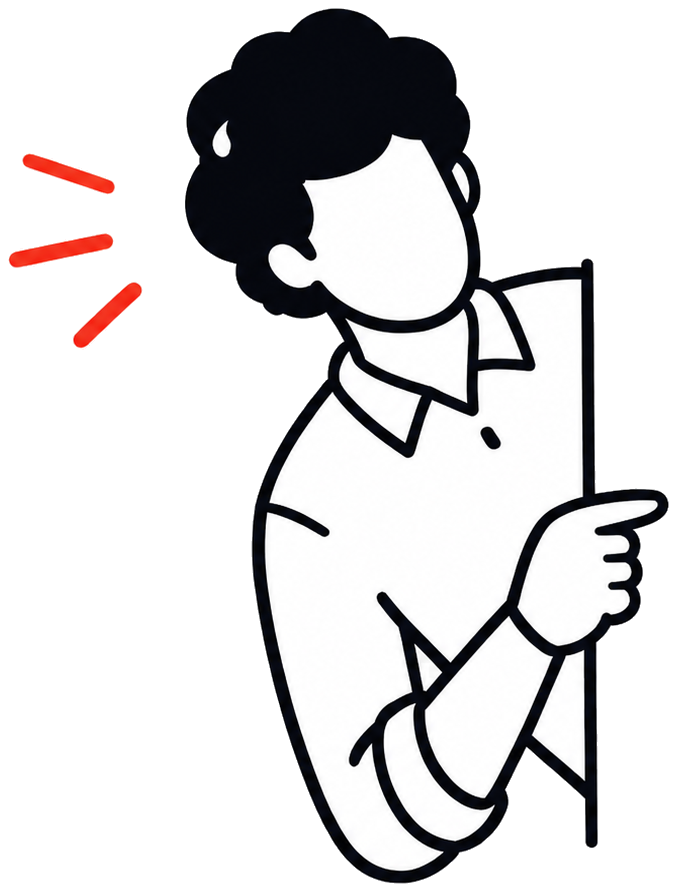
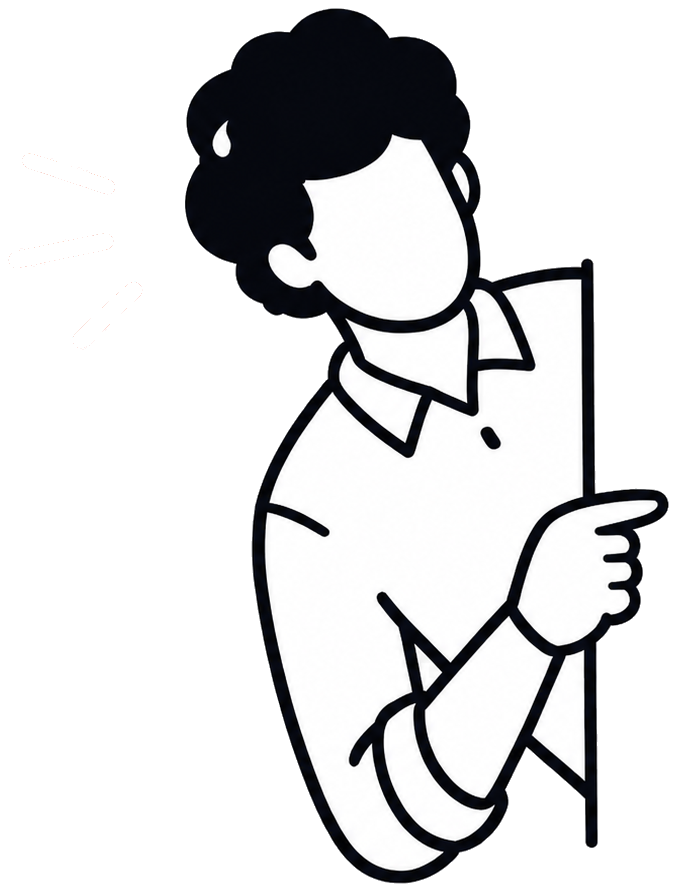
MAJ Landing

Changed region(s): [[0.0, 0.2424, 0.1864, 0.303], [0.0932, 0.303, 0.2175, 0.3939], [0.0311, 0.1515, 0.1864, 0.2121]]

diff --git a/src/components/landing/JourneyFlow.tsx b/src/components/landing/JourneyFlow.tsx
@@ -1,6 +1,7 @@
 "use client";
 
 import { useEffect, useRef, useState } from "react";
+import Image from "next/image";
 import { StoryStep1, StoryStep2, StoryStep3 } from "@/components/landing/StorySteps";
 
 const STEPS = [
@@ -9,10 +10,25 @@ const STEPS = [
   { caption: "Les rappels arrivent naturellement, sans y penser.", Step: StoryStep3 },
 ];
 
+// Les 3 poses du cycle de marche, dimensions réelles des fichiers
+// (nécessaires à next/image pour calculer le bon ratio). La ligne de
+// sol (les pieds) est alignée sur le bord bas de chacune.
+const WALK_POSES = [
+  { src: "/illustrations/illu-walk-1.png", width: 555, height: 906 },
+  { src: "/illustrations/illu-walk-2.png", width: 275, height: 914 },
+  { src: "/illustrations/illu-walk-3.png", width: 533, height: 903 },
+];
+const WALK_CYCLE = [0, 1, 2, 1];
+const STRIDE = 0.12;
+
 export function JourneyFlow() {
   const ref = useRef<HTMLDivElement>(null);
+  const walkerDesktopRef = useRef<HTMLDivElement>(null);
+  const walkerMobileRef = useRef<HTMLDivElement>(null);
   const [visible, setVisible] = useState(false);
   const [reducedMotion, setReducedMotion] = useState(false);
+  const [poseIndex, setPoseIndex] = useState(0);
+  const poseIndexRef = useRef(0);
 
   useEffect(() => {
     const mql = window.matchMedia("(prefers-reduced-motion: reduce)");
@@ -37,23 +53,57 @@ export function JourneyFlow() {
     return () => observer.disconnect();
   }, []);
 
+  // Le personnage avance le long du tracé en fonction de la position de
+  // scroll. Position écrite directement via ref à chaque frame ; la
+  // pose passe par du state, mise à jour seulement quand elle change.
+  useEffect(() => {
+    if (reducedMotion) return;
+    const node = ref.current;
+    if (!node) return;
+
+    let ticking = false;
+
+    const update = () => {
+      ticking = false;
+      const rect = node.getBoundingClientRect();
+      const vh = window.innerHeight;
+      const progress = Math.min(1, Math.max(0, (vh - rect.top) / (vh + rect.height)));
+
+      if (walkerDesktopRef.current) {
+        walkerDesktopRef.current.style.left = `${progress * 100}%`;
+      }
+      if (walkerMobileRef.current) {
+        walkerMobileRef.current.style.top = `calc(1rem + (100% - 2rem) * ${progress})`;
+      }
+
+      const step = Math.floor(progress / STRIDE) % WALK_CYCLE.length;
+      const nextPose = WALK_CYCLE[step];
+      if (nextPose !== poseIndexRef.current) {
+        poseIndexRef.current = nextPose;
+        setPoseIndex(nextPose);
+      }
+    };
+
+    const onScroll = () => {
+      if (!ticking) {
+        ticking = true;
+        requestAnimationFrame(update);
+      }
+    };
+
+    update();
+    window.addEventListener("scroll", onScroll, { passive: true });
+    window.addEventListener("resize", onScroll);
+    return () => {
+      window.removeEventListener("scroll", onScroll);
+      window.removeEventListener("resize", onScroll);
+    };
+  }, [reducedMotion]);
+
+  const pose = WALK_POSES[poseIndex];
+
   return (
     <div ref={ref} className="relative mx-auto mt-12 max-w-4xl">
-      <style>{`
-        @keyframes journeyPulseX {
-          0% { left: 0%; opacity: 0; }
-          8% { opacity: 1; }
-          92% { opacity: 1; }
-          100% { left: 100%; opacity: 0; }
-        }
-        @keyframes journeyPulseY {
-          0% { top: 0%; opacity: 0; }
-          8% { opacity: 1; }
-          92% { opacity: 1; }
-          100% { top: 100%; opacity: 0; }
-        }
-      `}</style>
-
       {/* ---------- Desktop : flux horizontal ---------- */}
       <div className="relative hidden items-start justify-between md:flex">
         <div
@@ -62,16 +112,21 @@ export function JourneyFlow() {
           style={{ transform: visible ? "scaleX(1)" : "scaleX(0)" }}
         />
         {visible && !reducedMotion && (
-          <span
+          <div
+            ref={walkerDesktopRef}
             aria-hidden
-            className="absolute top-[49px] h-1.5 w-1.5 rounded-full bg-brand-blue shadow-[0_0_8px_2px_rgba(46,111,242,0.5)]"
-            style={{ animation: "journeyPulseX 4.5s ease-in-out infinite", animationDelay: "1.2s" }}
-          />
+            className="pointer-events-none absolute top-[52px] left-0 z-20 -translate-x-1/2 -translate-y-full"
+          >
+            <Image
+              src={pose.src}
+              alt=""
+              width={pose.width}
+              height={pose.height}
+              className="h-14 w-auto drop-shadow-md"
+            />
+          </div>
         )}
 
-        {/* Le déroulé se lit dans l'ordre grâce à la ligne et au
-            point qui la parcourt, plus besoin d'un numéro sur
-            chaque étape pour ça, chaque visuel se suffit déjà. */}
         {STEPS.map(({ caption, Step }, i) => (
           <div
             key={i}
@@ -96,11 +151,19 @@ export function JourneyFlow() {
           style={{ transform: visible ? "scaleY(1)" : "scaleY(0)" }}
         />
         {visible && !reducedMotion && (
-          <span
+          <div
+            ref={walkerMobileRef}
             aria-hidden
-            className="absolute left-1/2 h-1.5 w-1.5 -translate-x-1/2 rounded-full bg-brand-blue shadow-[0_0_8px_2px_rgba(46,111,242,0.5)]"
-            style={{ animation: "journeyPulseY 4.5s ease-in-out infinite", animationDelay: "1.2s" }}
-          />
+            className="pointer-events-none absolute left-1/2 top-4 z-20 -translate-x-[115%] -translate-y-1/2"
+          >
+            <Image
+              src={pose.src}
+              alt=""
+              width={pose.width}
+              height={pose.height}
+              className="h-12 w-auto drop-shadow-md"
+            />
+          </div>
         )}
 
         {STEPS.map(({ caption, Step }, i) => (

diff --git a/src/components/landing/LandingPage.tsx b/src/components/landing/LandingPage.tsx
@@ -84,12 +84,25 @@ export function LandingPage() {
                 priority
               />
             </div>
+            <style>{`
+              @media (prefers-reduced-motion: no-preference) {
+                @keyframes heroCopiloteLand {
+                  0% { transform: translateY(-10px); }
+                  55% { transform: translateY(6px); }
+                  75% { transform: translateY(-3px); }
+                  100% { transform: translateY(0); }
+                }
+                .hero-copilote-land {
+                  animation: heroCopiloteLand 0.7s cubic-bezier(0.34, 1.56, 0.64, 1) 0.65s both;
+                }
+              }
+            `}</style>
             <Image
               src="/illustrations/illu-copilote-hero.png"
               alt=""
               width={802}
               height={1274}
-              className="pointer-events-none absolute -top-16 right-10 h-28 w-auto sm:-top-24 sm:right-16 sm:h-40"
+              className="hero-copilote-land pointer-events-none absolute -top-16 right-10 h-28 w-auto sm:-top-24 sm:right-16 sm:h-40"
             />
           </div>
         </Reveal>
@@ -439,12 +452,24 @@ export function LandingPage() {
             de l'illustration au-dessus du bord, 19 % retombant dessus,
             centré avec un léger décalage à droite (+3,6 % de la
             largeur de la section). */}
+        <style>{`
+          @media (prefers-reduced-motion: no-preference) {
+            @keyframes ctaCopiloteSway {
+              0%, 100% { transform: translateX(-50%) rotate(0deg); }
+              50% { transform: translateX(-50%) rotate(1.2deg); }
+            }
+            .cta-copilote-sway {
+              animation: ctaCopiloteSway 4.5s ease-in-out infinite;
+              transform-origin: 50% 100%;
+            }
+          }
+        `}</style>
         <Image
           src="/illustrations/illu-cta-final.png"
           alt=""
           width={1319}
           height={979}
-          className="pointer-events-none absolute left-[58%] top-[-4.7rem] z-10 h-28 w-auto -translate-x-1/2 sm:top-[-7.2rem] sm:h-[170px]"
+          className="cta-copilote-sway pointer-events-none absolute left-[58%] top-[-4.7rem] z-10 h-28 w-auto -translate-x-1/2 sm:top-[-7.2rem] sm:h-[170px]"
         />
         <Reveal>
           <div className="relative mx-auto max-w-2xl px-6 text-center">

diff --git a/src/components/landing/InteractiveDemo.tsx b/src/components/landing/InteractiveDemo.tsx
@@ -377,13 +377,34 @@ export function InteractiveDemo() {
                 : "z-10 translate-x-0 opacity-100"
             }`}
           >
-            <Image
-              src="/illustrations/illu-peek.png"
-              alt=""
-              width={676}
-              height={891}
-              className="h-32 w-auto sm:h-44"
-            />
+            <style>{`
+              @media (prefers-reduced-motion: no-preference) {
+                @keyframes peekLinesPulse {
+                  0%, 100% { opacity: 0.55; transform: scale(0.94); }
+                  50% { opacity: 1; transform: scale(1.06); }
+                }
+                .peek-lines-pulse {
+                  animation: peekLinesPulse 1.8s ease-in-out infinite;
+                  transform-origin: 80% 50%;
+                }
+              }
+            `}</style>
+            <div className="relative">
+              <Image
+                src="/illustrations/illu-peek.png"
+                alt=""
+                width={676}
+                height={891}
+                className="h-32 w-auto sm:h-44"
+              />
+              <Image
+                src="/illustrations/illu-peek-lines.png"
+                alt=""
+                width={144}
+                height={205}
+                className="peek-lines-pulse absolute left-[0.5%] top-[16.5%] w-[21%] h-auto"
+              />
+            </div>
           </div>
         )}
         <div className="overflow-hidden rounded-2xl border border-surface-border bg-white shadow-2xl">
